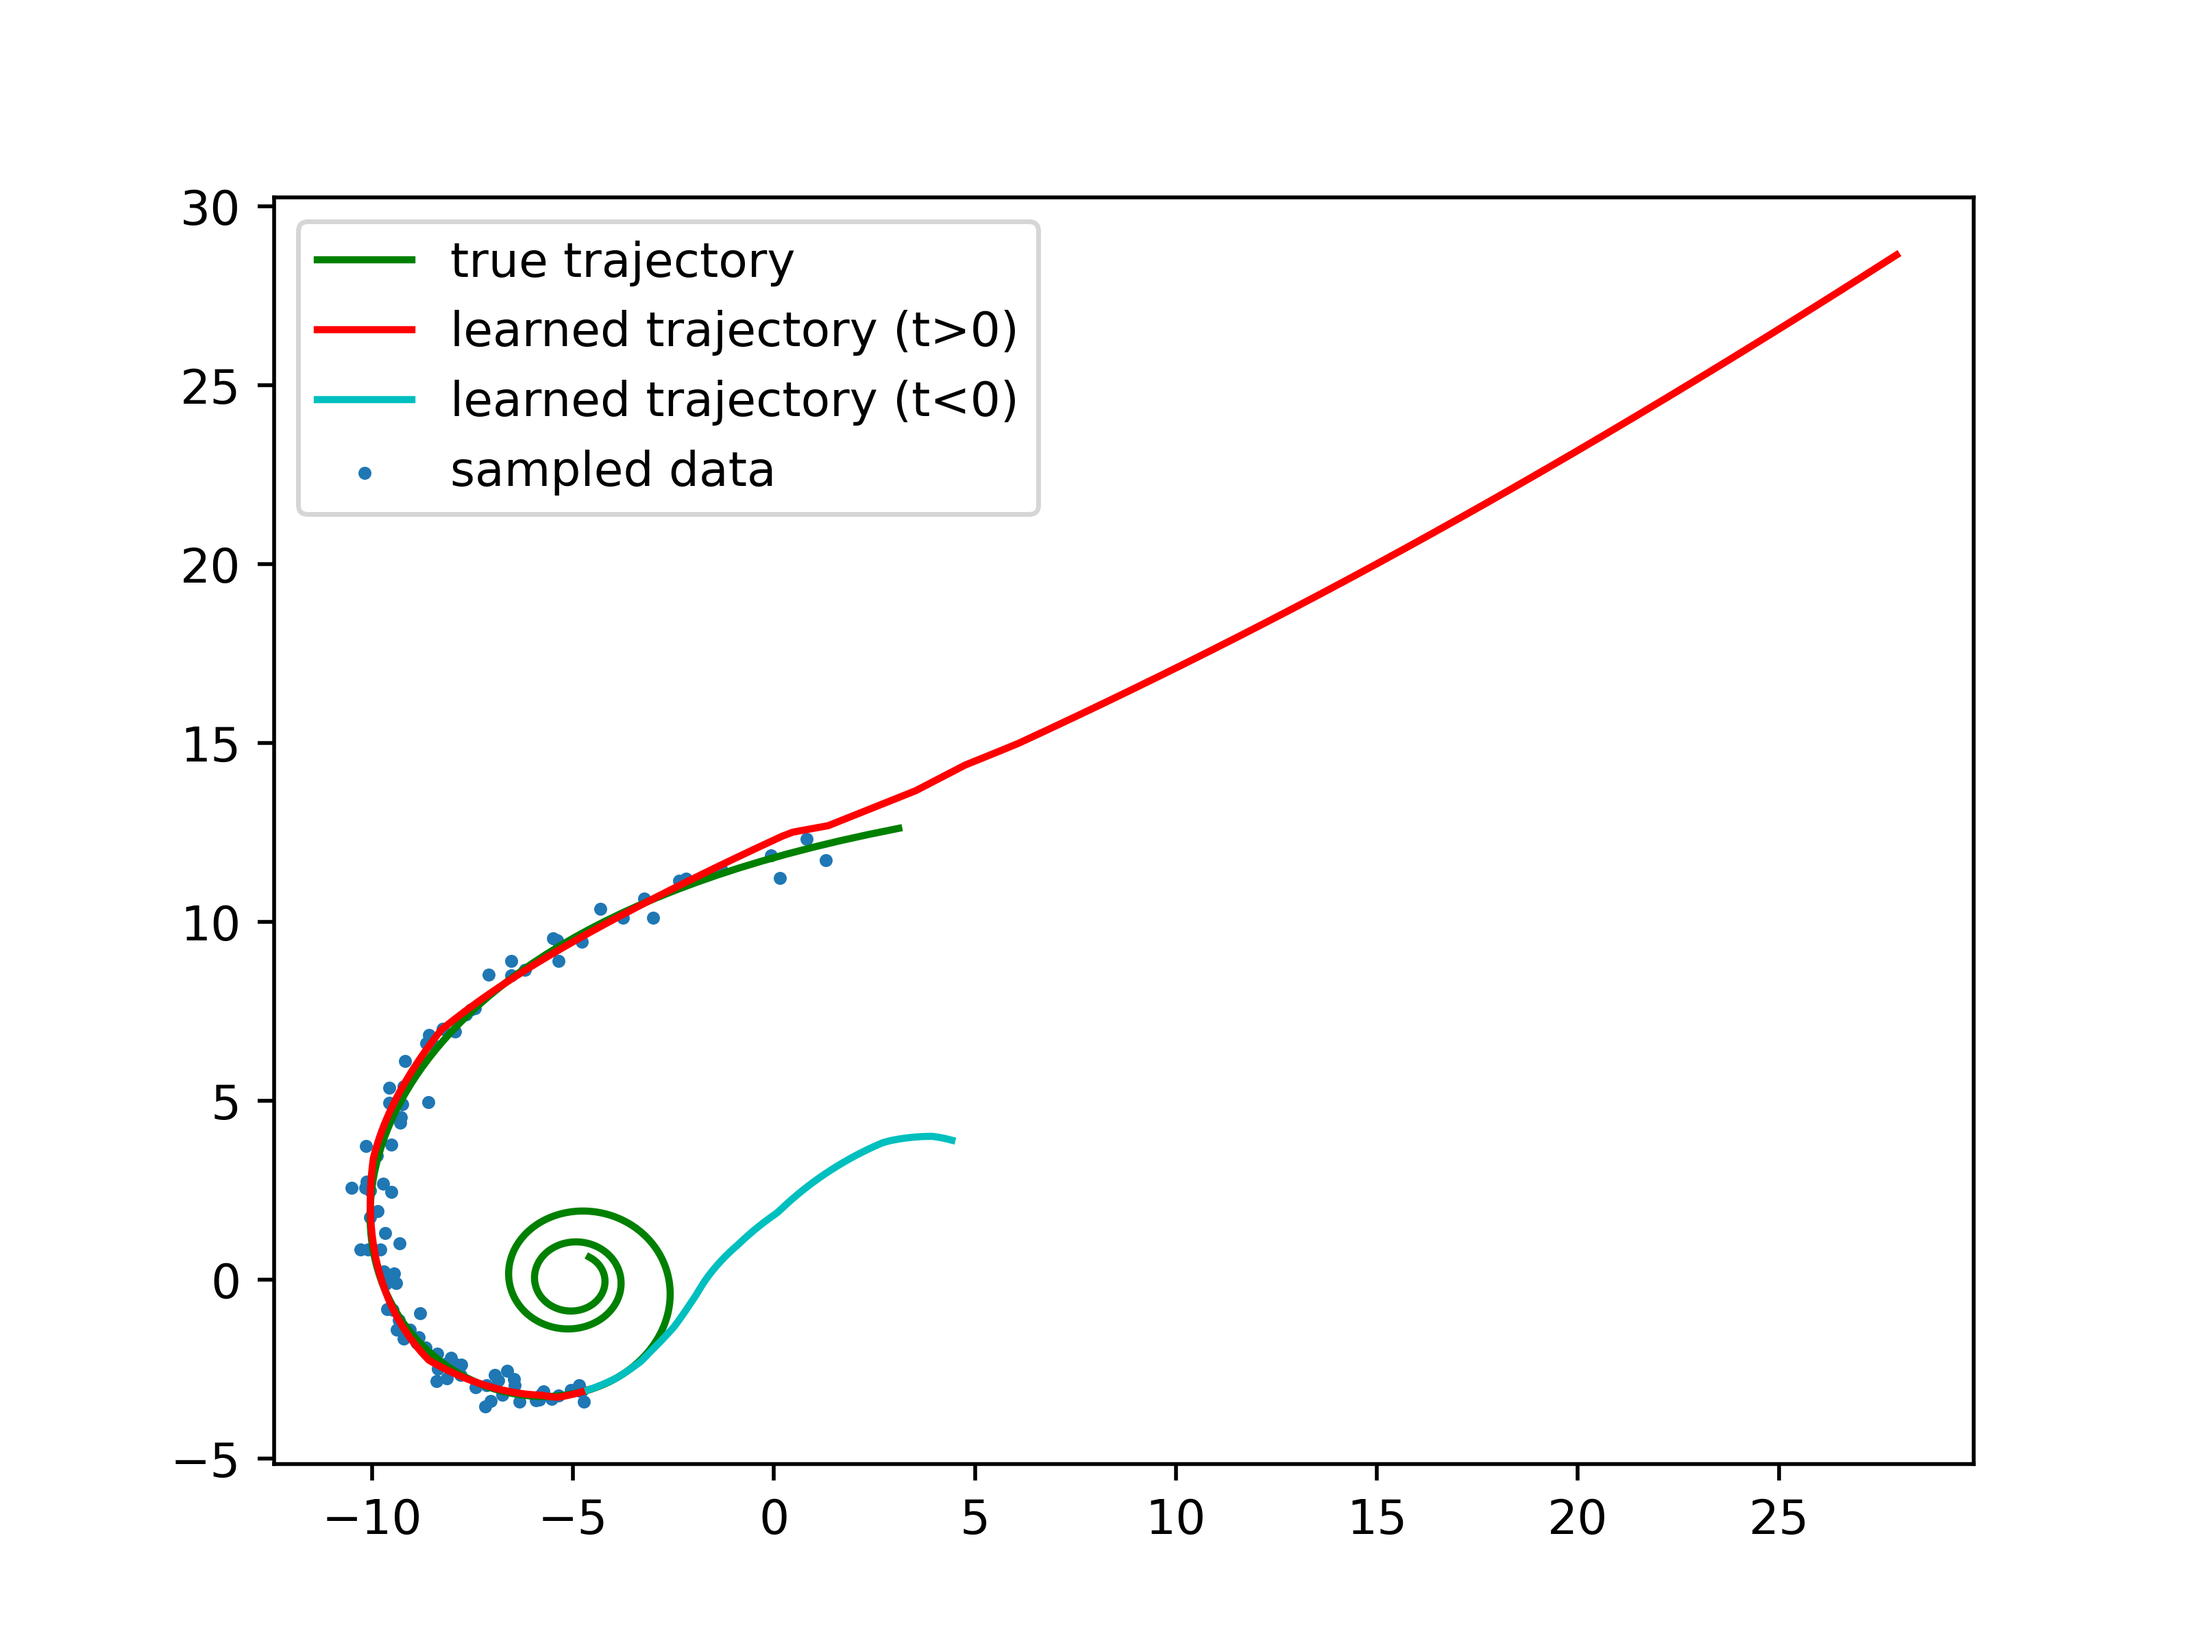
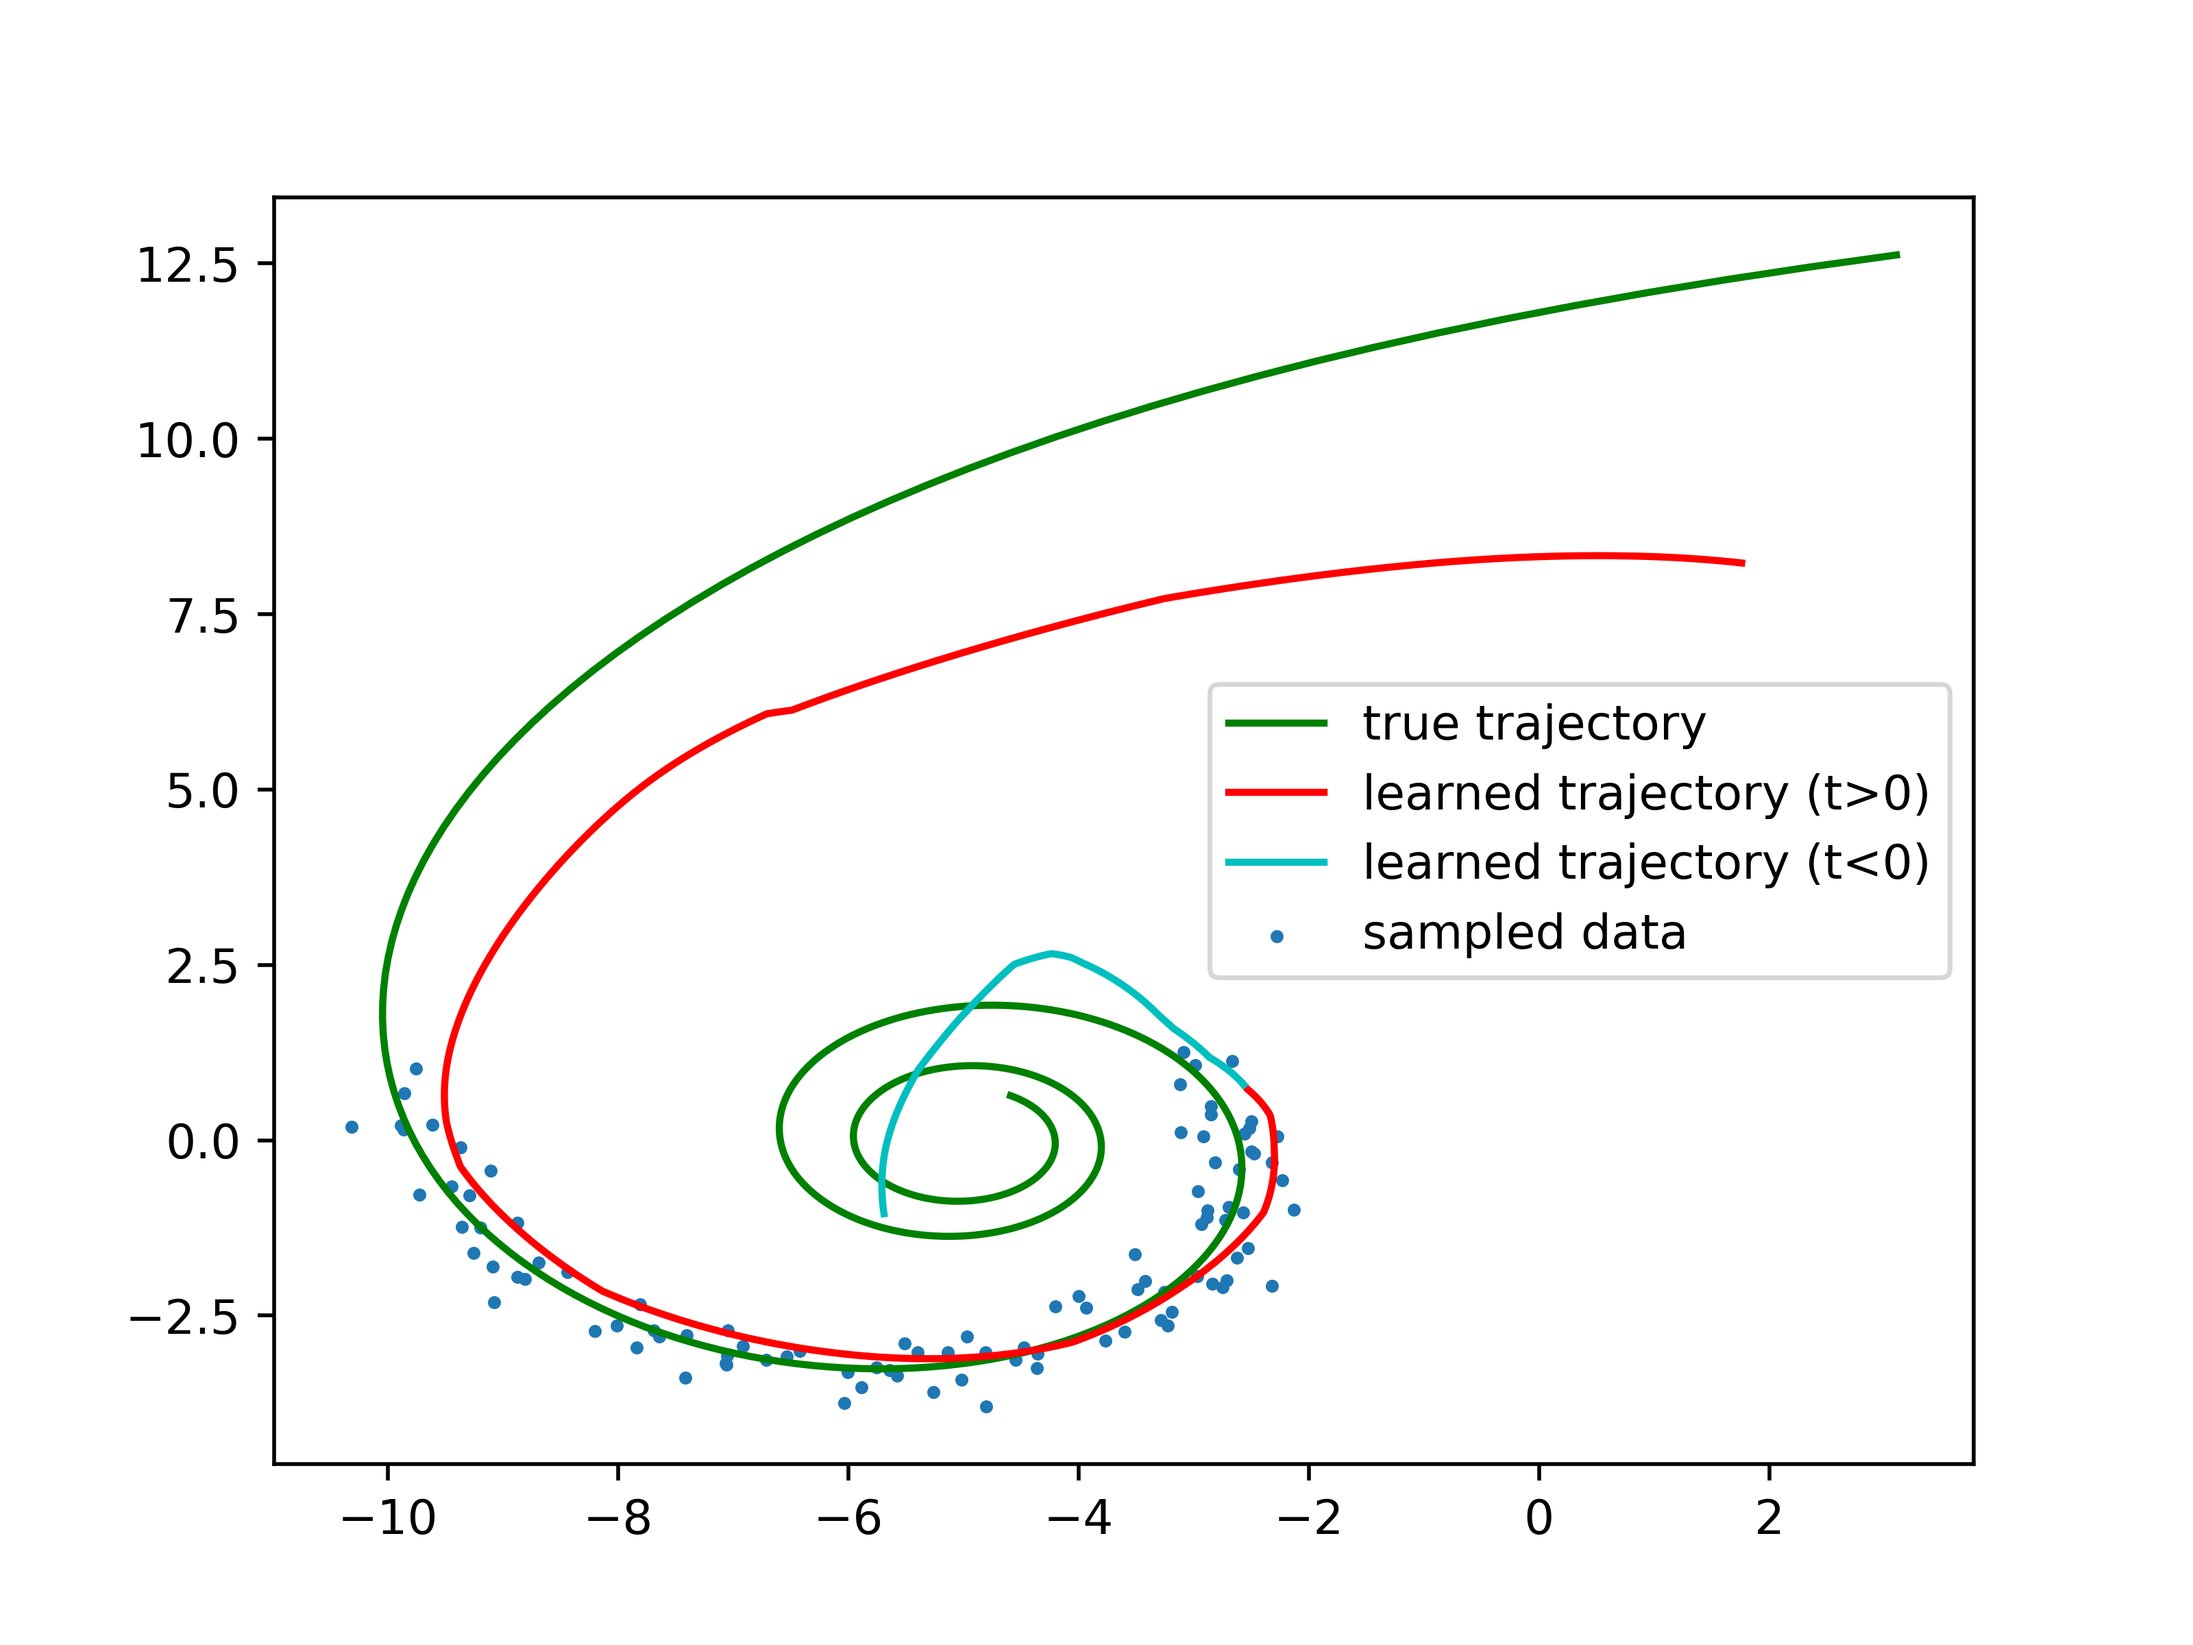
minor refactors + 3000 epoch run
looks promising (famous last words)

diff --git a/author.py b/author.py
@@ -333,5 +333,6 @@ if __name__ == '__main__':
         plt.scatter(samp_traj[:, 0], samp_traj[
                     :, 1], label='sampled data', s=3)
         plt.legend()
-        plt.savefig('./vis.png', dpi=500)
-        print('Saved visualization figure at {}'.format('./vis.png'))
+        fig_name = f'./vis-{args.niters}-{args.lr}.png'
+        plt.savefig(fig_name, dpi=500)
+        print('Saved visualization figure at {}'.format('./vis-3000-001.png'))
